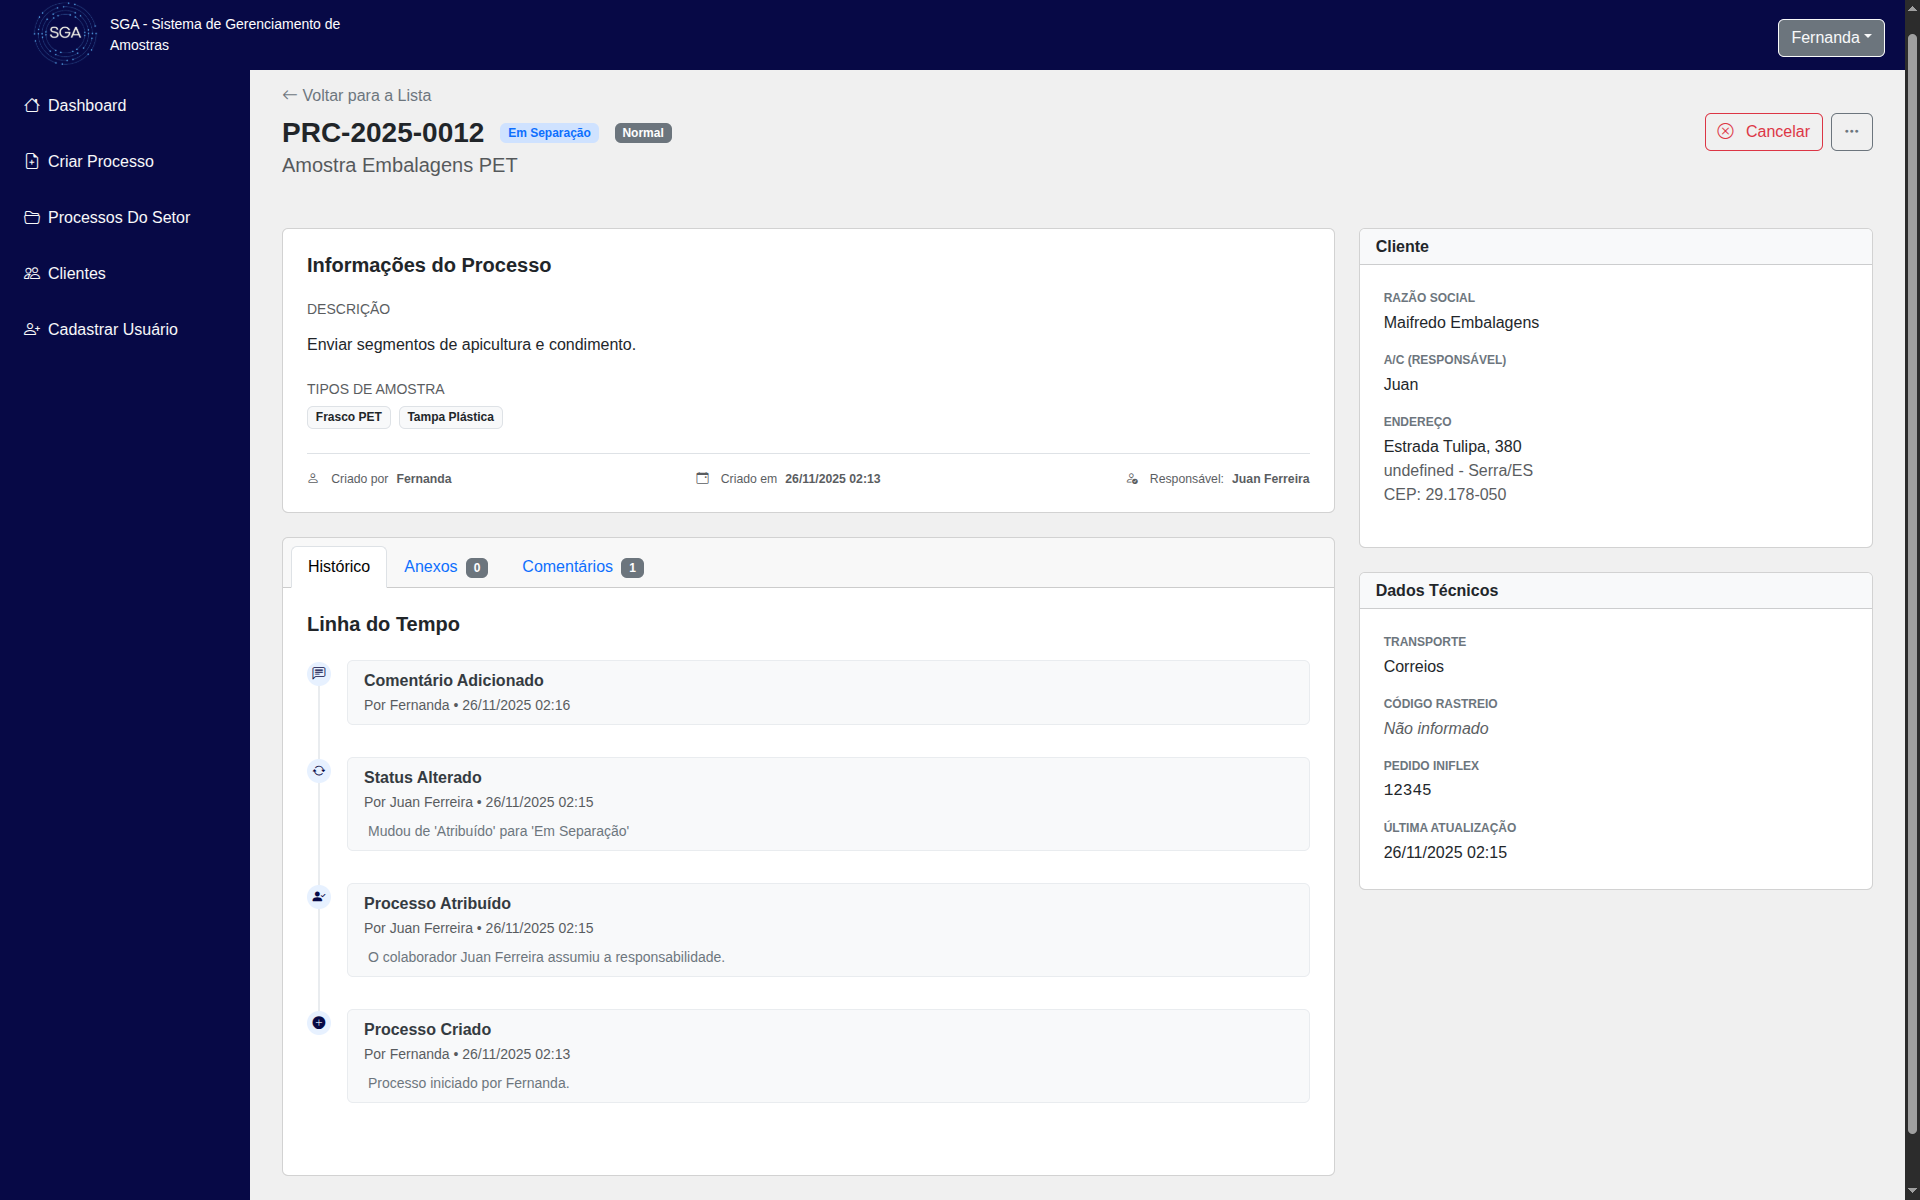
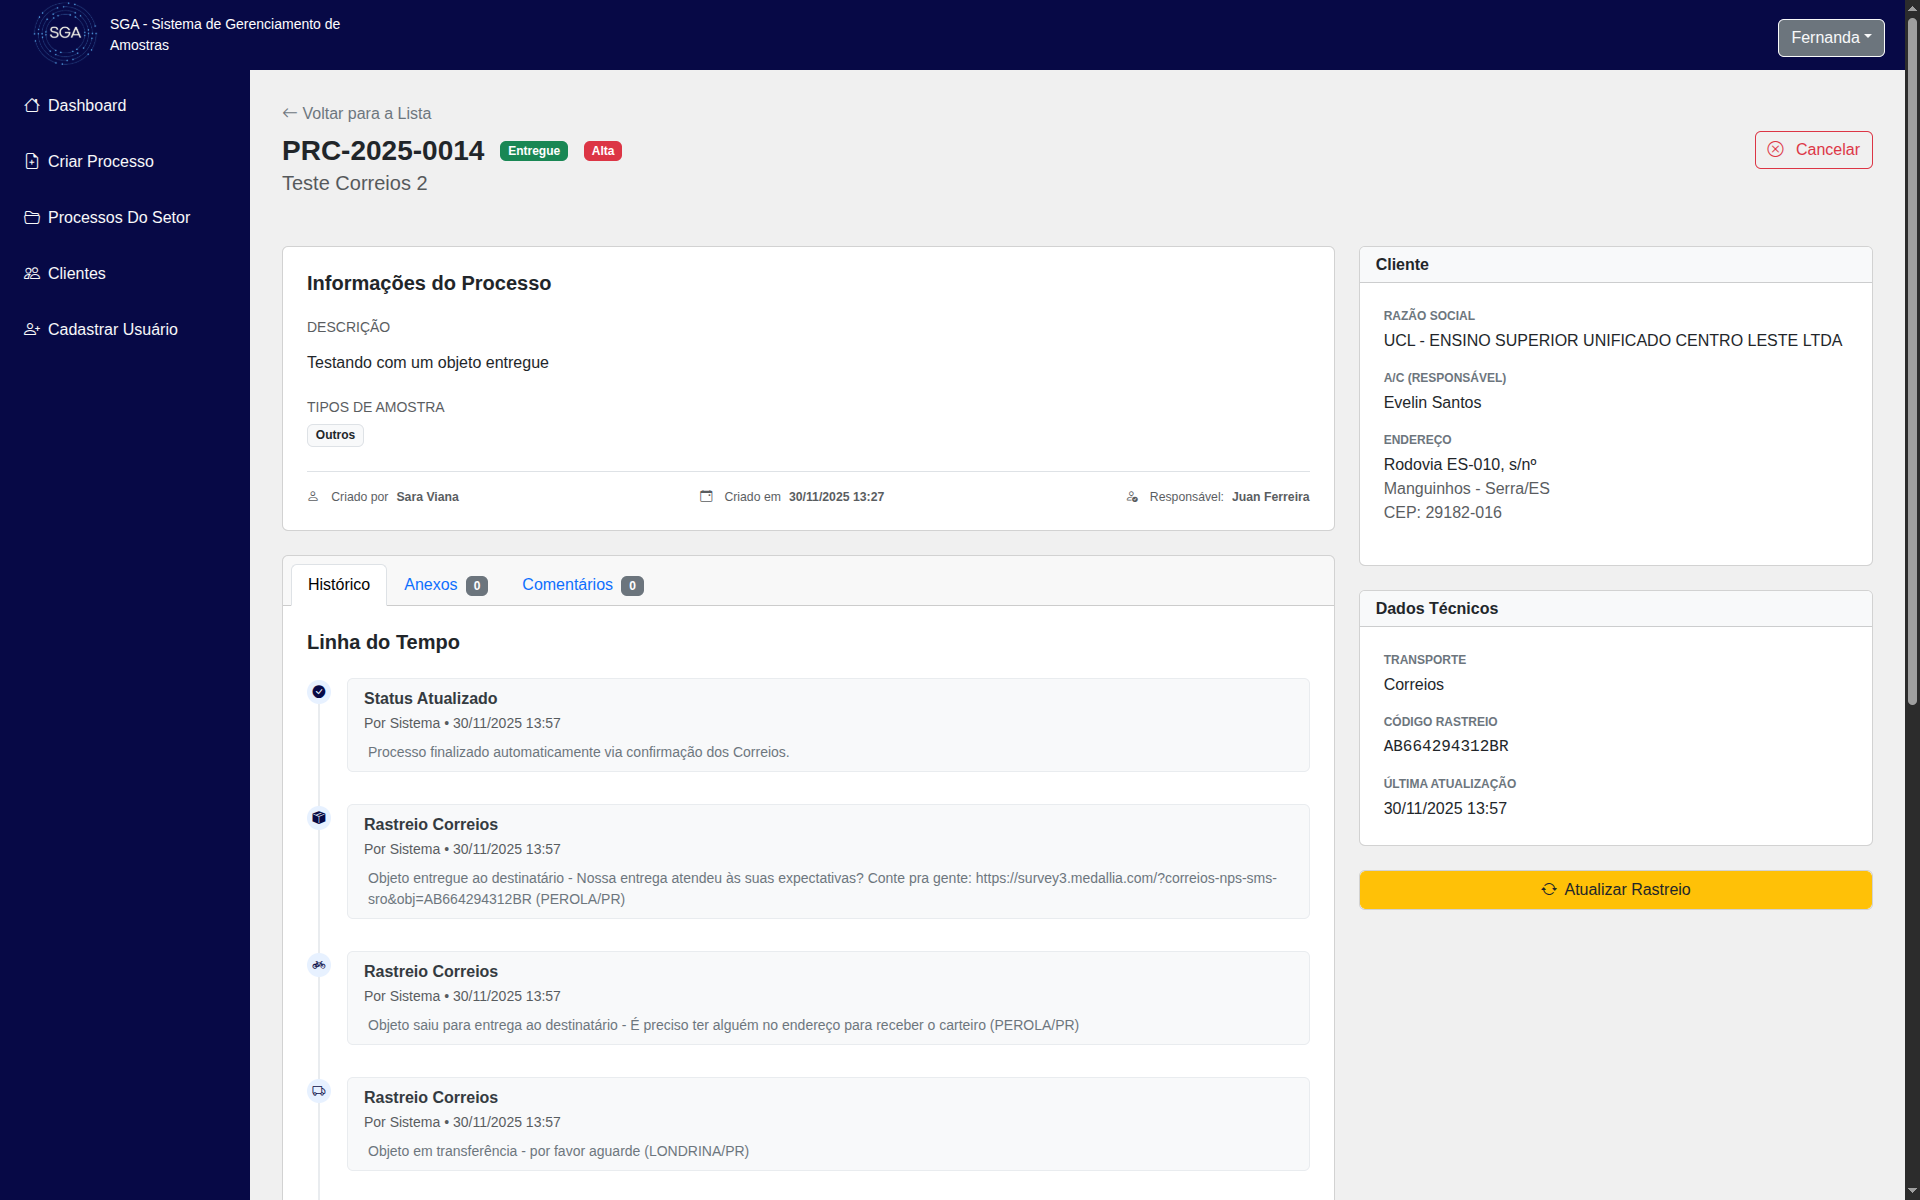
docs: Atualiza documentação com integração dos Correios e novos prints
- Adiciona seção de Integração Logística no README.
- Atualiza screenshot da timeline para refletir a nova interface de rastreamento.

diff --git a/README.md b/README.md
@@ -29,124 +29,185 @@ Focado na experiência do usuário e na integridade dos dados, o SGA implementa 
 ## 🖥 Visão Geral do Sistema
 
 ### 📊 Dashboards Personalizados
+
 Visão centralizada dos indicadores de desempenho, com contadores de status e gráficos de produtividade semanal.
 
 ![Dashboard](screenshots/dashboard_gestor.png)
-*(Visão do Gestor com indicadores e gráficos)*
-
-![Dashboard](screenshots/dashboard_vendedor.png)
-*(Visão do Vendedor com última movimentação dos processos)*
-
-![Dashboard](screenshots/dashboard_separador1.png)
-*(Visão do Separador com processos pendentes)*
-
-![Dashboard](screenshots/dashboard_separador2.png)
-*(Visão do Separador com processos todos encerrados)*
+_(Visão do Gestor com indicadores e gráficos)_
 
 ---
 
 ## ✨ Principais Funcionalidades
 
 ### 1. Gestão de Processos (Core)
+
 O coração do sistema, focado em agilidade e rastreabilidade.
 
-* **Criação Inteligente:** Formulário de criação com busca de clientes via **AJAX** (estilo Correios/E-commerce) e cadastro rápido via Modal, sem sair da tela. Suporte a múltiplos tipos de amostra e upload de anexo inicial.
-* **Listagem Avançada:** Filtros dinâmicos por busca textual, status e prioridade. Paginação inteligente e separação visual para Gestores ("Meus Processos" vs "Todos").
-* **Fluxo de Atribuição:** Implementação de **Auto-atribuição**. Separadores visualizam a fila "Não Atribuída" e puxam a responsabilidade para si.
+- **Criação Inteligente:** Formulário de criação com busca de clientes via **AJAX** e cadastro rápido via Modal. Suporte a múltiplos tipos de amostra.
+- **Listagem Avançada:** Filtros dinâmicos, paginação inteligente e separação visual ("Meus Processos" vs "Todos").
+- **Fluxo de Atribuição:** Implementação de **Auto-atribuição**. Separadores visualizam a fila "Não Atribuída" e puxam a responsabilidade.
 
 ![Criação de Processo](screenshots/fluxo_criacao.png)
-*(Interface de criação com busca AJAX e Modais)*
 
-### 2. Rastreabilidade e Detalhes
+### 2. Rastreabilidade e Timeline
+
 Cada processo possui uma **Timeline** imutável que registra automaticamente:
-* Criação e Atribuição.
-* Mudanças de Status e definição de Rastreio.
-* Alterações críticas em dados do Cliente (Auditoria).
-* Uploads de anexos e registro de ocorrências.
+
+- Criação, Atribuição e Mudanças de Status.
+- Alterações críticas em dados do Cliente (Auditoria).
+- Uploads de anexos e registro de ocorrências.
+
+Durante a fase de desenvolvimento, o rastreamento via correios é funcional de forma manual (ao clicar no botão de atualizar), mas a automação via Celery já está preparada para futuras integrações.
 
 ![Detalhes e Timeline](screenshots/detalhes_timeline.png)
-*(Timeline detalhada e gestão de anexos)*
 
 ### 3. Módulo Administrativo (`accounts`)
-* **Controle de Acesso (RBAC):** Três níveis de permissão distintos:
-    * **Gestor:** Acesso total, CRUD de usuários, cancelamento de processos.
-    * **Vendedor:** Criação de pedidos, visualização restrita aos seus processos.
-    * **Separador:** Operação logística, alteração de status, inserção de rastreio.
-* **Segurança:** Implementação de **Soft Delete** (Inativação) para preservar histórico de usuários demitidos/removidos.
 
-![Lista de Usuários](screenshots/lista_usuarios.png)
-*(Gestão de usuários com Soft-Delete)*
+- **Controle de Acesso (RBAC):** Três níveis de permissão (Gestor, Vendedor, Separador).
+- **Segurança:** Implementação de **Soft Delete** (Inativação) de usuários.
+
+### 4. Integração Logística (Correios) 📦 _(Novo)_
+
+Integração direta com a API CWS dos Correios para monitoramento de entregas.
+
+- **Sincronização de Eventos:** Botão para atualizar o rastreio diretamente na tela de detalhes.
+- **Automação de Status:** O sistema detecta eventos como "Objeto Entregue" ou "Devolvido" e atualiza o status do processo automaticamente.
+- **Validação de Endereço:** Autocomplete de endereço via CEP na criação de clientes.
+
+---
+
+## ⚙ Configuração e Ambiente (.env)
+
+O sistema utiliza a biblioteca `python-decouple` para gerenciar configurações sensíveis. Antes de rodar o projeto, você deve criar um arquivo `.env` na raiz do projeto (baseado no `.env.example`, se houver) com as seguintes chaves:
+
+```ini
+# Configurações do Django
+SECRET_KEY=sua_chave_secreta_aqui
+DEBUG=True
+ALLOWED_HOSTS=127.0.0.1,localhost
+
+# 📦 Configurações da API dos Correios (CWS)
+CORREIOS_USER=seu_usuario_meus_correios
+CORREIOS_CODIGO_ACESSO=sua_senha_de_acesso_api
+CORREIOS_CONTRATO=numero_do_contrato
+CORREIOS_CARTAO=numero_do_cartao_postagem
+CORREIOS_URL_BASE=[https://api.correios.com.br](https://api.correios.com.br)
+```
+
+### ⚠ Requisitos da API dos Correios
+
+Para que as funcionalidades de rastreamento funcionem corretamente, é necessário:
+
+1.  **Cadastro no "Meus Correios":** A empresa deve possuir conta ativa no portal dos Correios.
+2.  **Contrato Jurídico:** A API de Rastreamento (SRO) e a geração de Tokens (CWS) exigem um Contrato de Cartão de Postagem ativo.
+3.  **Credenciais:** As chaves de acesso devem ser geradas no portal do desenvolvedor dos Correios.
+
+> 🔗 **Documentação Oficial:** [Correios CWS - Manual Técnico](https://www.correios.com.br/atendimento/developers/manuais/correioswebservice)
 
 ---
 
 ## 🛠 Tecnologias Utilizadas
 
-* **Backend:** Python 3, Django 5 (MVT Architecture)
-* **Frontend:** HTML5, CSS3 (Custom + Bootstrap 5), JavaScript (Vanilla + Fetch API)
-* **Banco de Dados:** SQLite3 (Dev) / MySQL (Prod - *Planejado*)
-* **Bibliotecas Chave:**
-    * `Pillow`: Processamento de imagens de perfil.
-    * `Chart.js`: Visualização de dados no dashboard.
-* **Ferramentas:** Git, GitHub, VS Code.
+- **Backend:** Python 3, Django 5 (MVT Architecture)
+- **Frontend:** HTML5, CSS3 (Custom + Bootstrap 5), JavaScript (Vanilla + Fetch API)
+- **Banco de Dados:** SQLite3 (Dev) / MySQL (Prod - _Planejado_)
+- **Integrações:** API REST Correios (CWS/SRO).
+- **Bibliotecas Chave:**
+  - `python-decouple`: Gestão de variáveis de ambiente.
+  - `requests`: Consumo de APIs externas.
+  - `Pillow`: Processamento de imagens.
+  - `Chart.js`: Gráficos dinâmicos.
 
 ---
 
 ## 🚀 Instalação e Execução
 
-Siga os passos abaixo para rodar o projeto localmente.
-
 ### Pré-requisitos
-* Python 3.10+
-* Git
+
+- Python 3.10+
+- Git
 
 ### Passo a Passo
 
 1.  **Clone o repositório:**
+
     ```bash
     git clone [https://github.com/Juaqn07/sga-sistema-de-gerenciamento-de-amostras.git](https://github.com/Juaqn07/sga-sistema-de-gerenciamento-de-amostras.git)
     cd sga-sistema-de-gerenciamento-de-amostras/sga
     ```
 
 2.  **Crie e ative o ambiente virtual:**
+
     ```bash
     python -m venv venv
-    # Windows
-    .\venv\Scripts\activate
-    # Linux/Mac
-    source venv/bin/activate
+    # Windows: .\venv\Scripts\activate
+    # Linux/Mac: source venv/bin/activate
     ```
 
 3.  **Instale as dependências:**
+
     ```bash
     pip install -r requirements.txt
     ```
 
-4.  **Configure o Banco de Dados:**
+4.  **Configure o `.env`:**
+    Crie o arquivo `.env` na raiz conforme explicado na seção "Configuração".
+
+5.  **Execute as migrações e crie o Superusuário:**
+
     ```bash
     python manage.py migrate
-    ```
-
-5.  **Crie um Superusuário (Gestor):**
-    ```bash
     python manage.py createsuperuser
     ```
 
+    > _Siga as instruções no terminal para definir usuário, e-mail e senha do administrador._
+
 6.  **Execute o servidor:**
+
     ```bash
     python manage.py runserver
     ```
-    Acesse: `http://127.0.0.1:8000/admin` e crie os primeiros usuários
+
+---
+
+## ⚡ Configuração Inicial (Primeiros Passos)
+
+Após rodar o servidor pela primeira vez, é necessário popular o banco de dados com informações básicas para o sistema operar corretamente.
+
+### 1\. Acessar o Painel Administrativo
+
+Acesse `http://127.0.0.1:8000/admin` e faça login com o **Superusuário** criado na instalação.
+
+### 2\. Cadastrar Tipos de Amostra (Obrigatório)
+
+Para criar um novo processo, o sistema exige tipos de amostra pré-definidos.
+
+1.  No Admin, vá em **Samples \> Tipos de Amostra**.
+2.  Adicione itens como:
+    - `Frasco PET`
+    - `Tampa Plástica`
+    - `Rótulo`
+    - `Pré-forma`
+    - `Outros`
+
+### 3\. Criar Usuários Operacionais
+
+Para testar os diferentes perfis de acesso, crie usuários com as seguintes funções no Admin ou na tela de "Gerenciar Usuários" (se logado como Gestor):
+
+- **Vendedor:** Para criar e acompanhar pedidos.
+- **Separador:** Para visualizar a fila de separação e atribuir tarefas.
+- **Gestor:** Para visualizar KPIs e relatórios.
 
 ---
 
 ## 👥 Equipe
 
-| Nome | Função |
-| :--- | :--- |
-| **Diego de Souza Gonoring** | Front-End / Prototipagem|
-| **Julia Soares Moreira** | Front-End / Prototipagem|
-| **Juan Ferreira dos Santos** | Back-End / Arquitetura |
-| **Evelin Santos de Jesus** | Documentação |
+| Nome                         | Função                   |
+| :--------------------------- | :----------------------- |
+| **Diego de Souza Gonoring**  | Front-End / Prototipagem |
+| **Julia Soares Moreira**     | Front-End / Prototipagem |
+| **Juan Ferreira dos Santos** | Back-End / Arquitetura   |
+| **Evelin Santos de Jesus**   | Documentação             |
 
 ---
 
